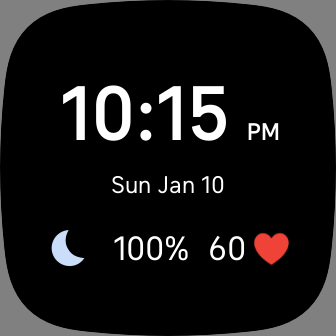
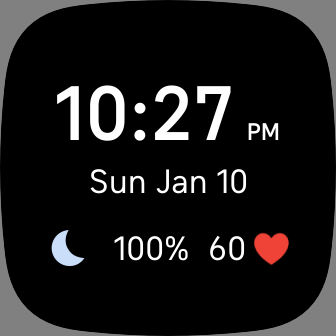
fix css bug

Changed region(s): [[0.1488, 0.2381, 0.6845, 0.4167], [0.4762, 0.506, 0.744, 0.5952], [0.2679, 0.506, 0.4464, 0.5952]]

diff --git a/resources/styles.css b/resources/styles.css
@@ -26,7 +26,7 @@
 }
 
 #date{
-  font-size: 25;
+  font-size: 35;
   text-length: 32;
   x: 50%;
   y:30%+40+18+35;
